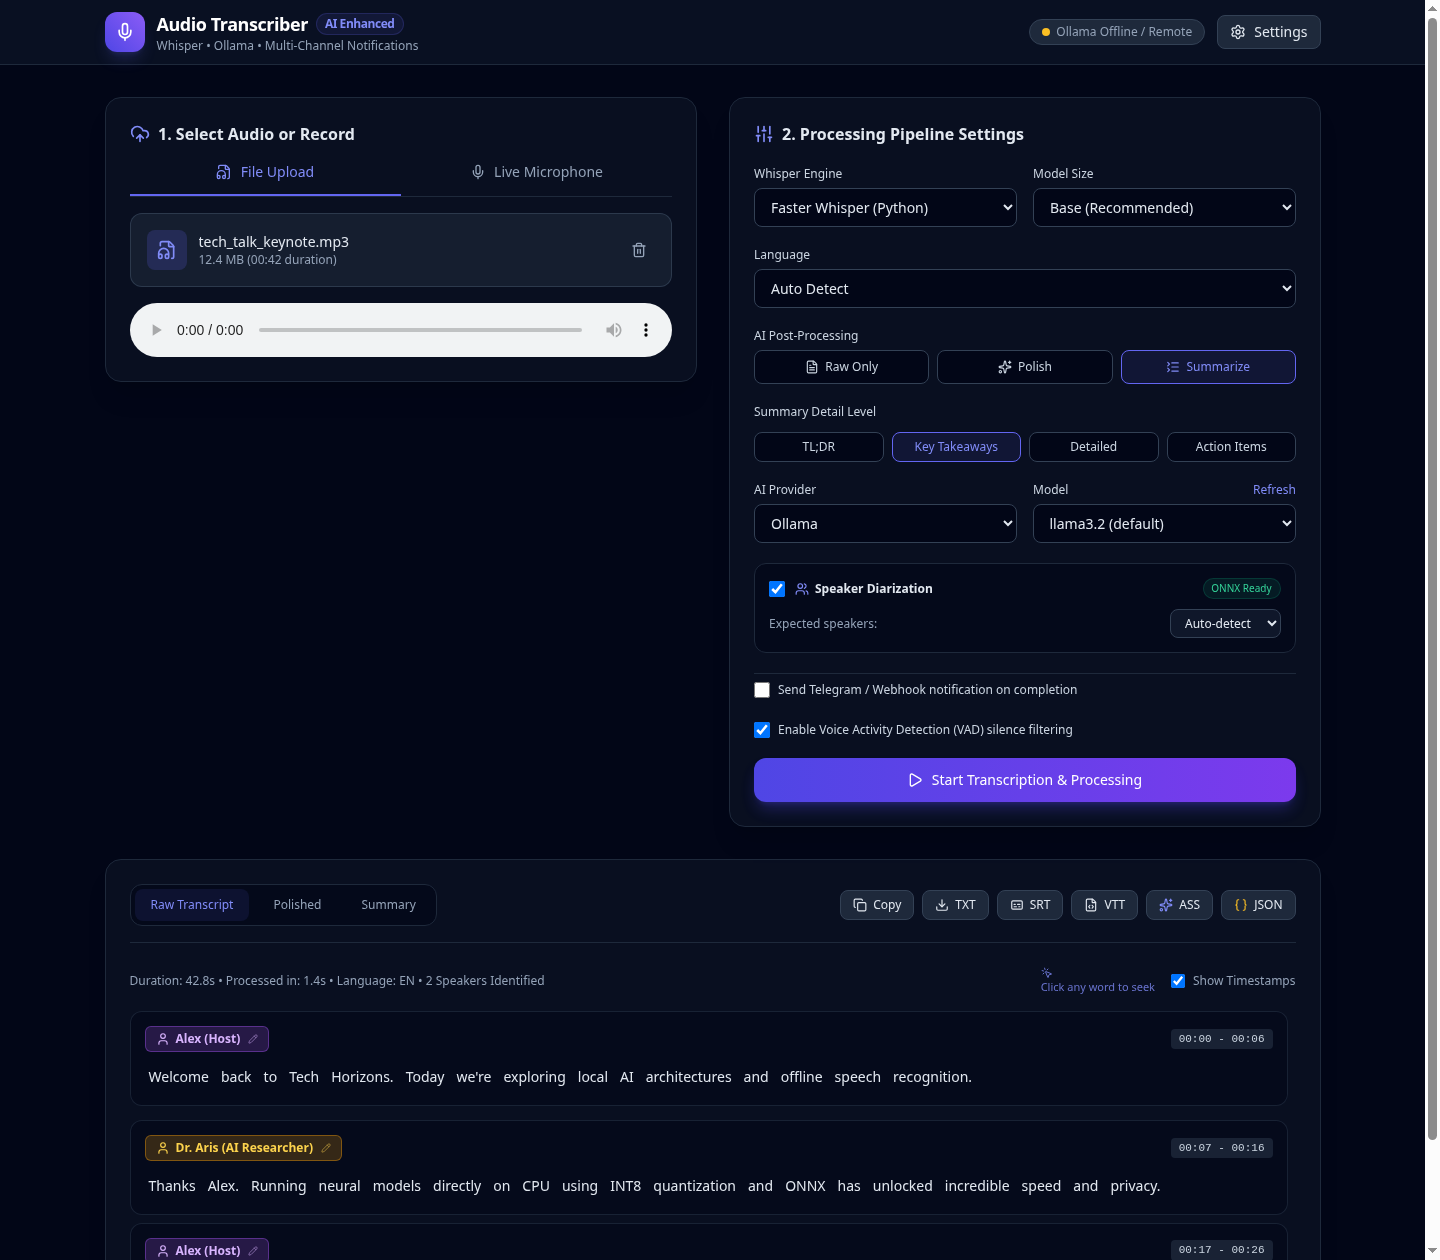
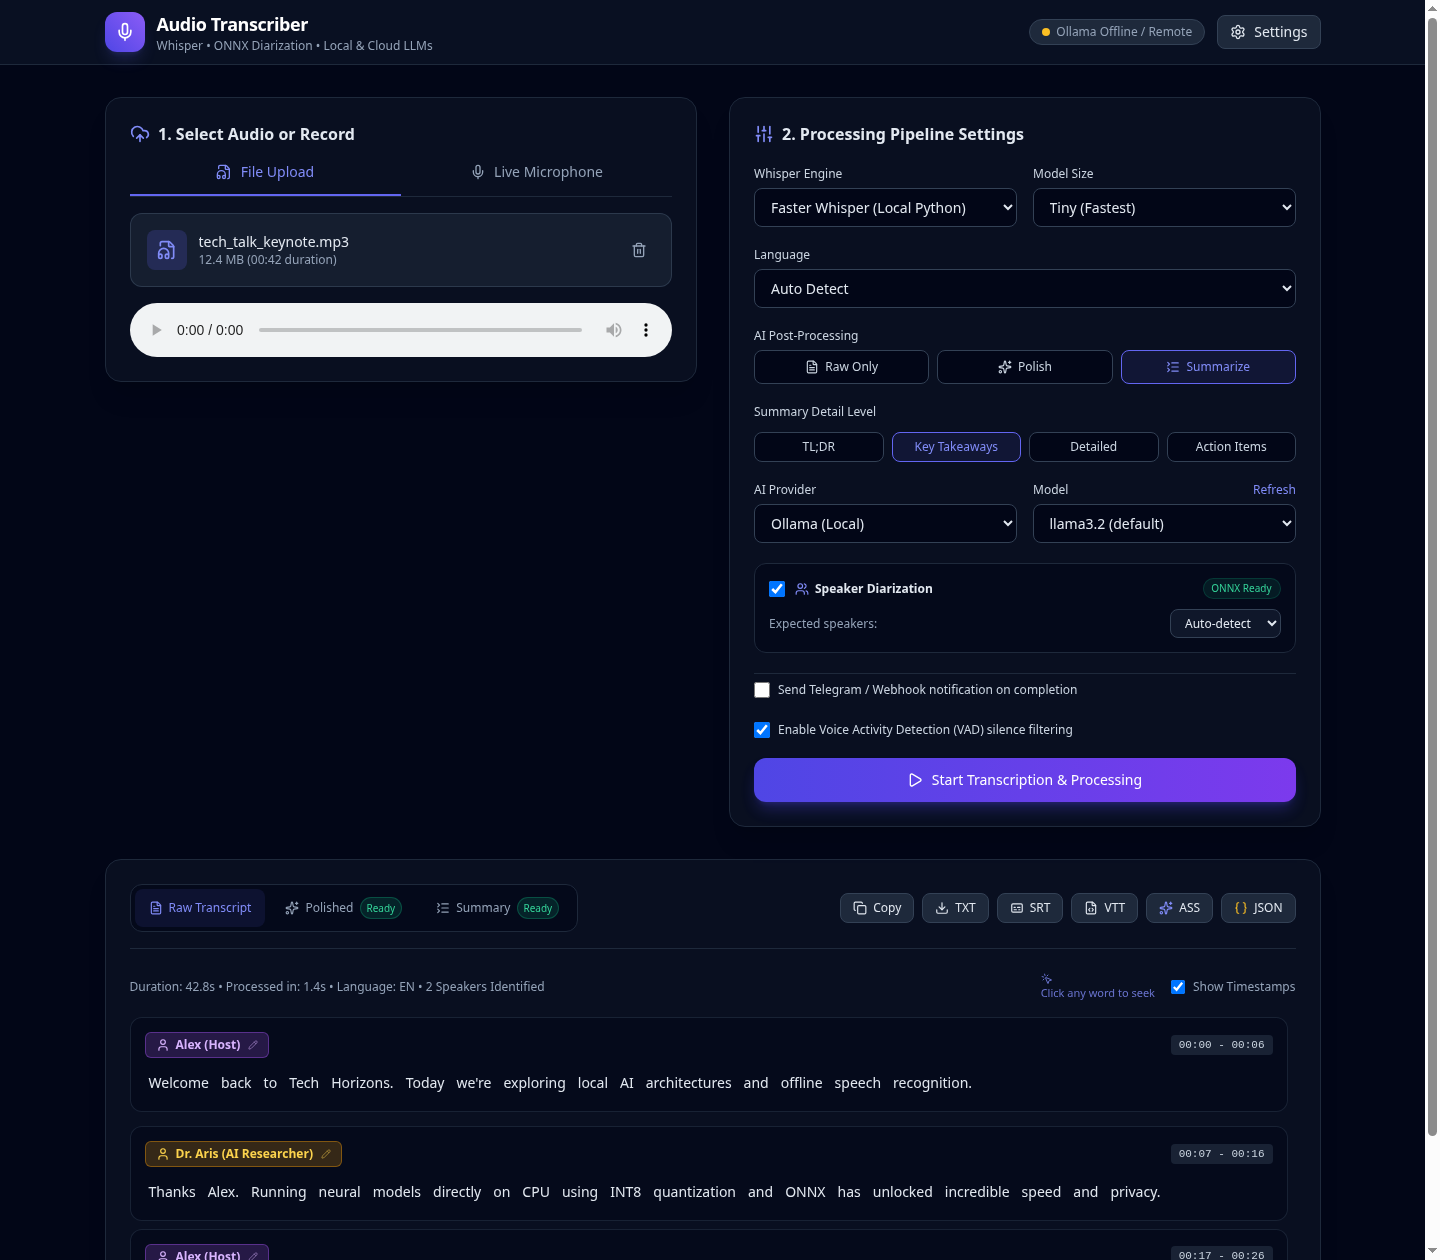
updating documentation

diff --git a/templates/index.html b/templates/index.html
@@ -22,8 +22,8 @@
           <i data-lucide="mic" class="w-5 h-5 text-white"></i>
         </div>
         <div>
-          <h1 class="text-lg font-semibold tracking-tight text-white flex items-center gap-2">
-            Audio Transcriber <span class="text-xs px-2 py-0.5 rounded-full bg-indigo-500/10 text-indigo-400 border border-indigo-500/20">AI Enhanced</span>
+          <h1 class="text-lg font-semibold tracking-tight text-white">
+            Audio Transcriber
           </h1>
           <p class="text-xs text-slate-400">Whisper • ONNX Diarization • Local & Cloud LLMs</p>
         </div>
@@ -162,7 +162,7 @@
               <select id="whisper-engine-select" class="w-full bg-slate-950 border border-slate-700 rounded-lg px-3 py-2 text-sm text-slate-200 focus:outline-none focus:border-indigo-500">
                 <option value="faster-whisper" selected>Faster Whisper (Local Python)</option>
                 <option value="whisper.cpp">Whisper C++ Binary (Local)</option>
-                <option value="groq">Groq Cloud Whisper (Ultra-Fast)</option>
+                <option value="groq">Groq Cloud Whisper</option>
                 <option value="openrouter">OpenRouter Cloud Whisper</option>
                 <option value="openai">OpenAI Cloud Whisper</option>
               </select>
@@ -228,7 +228,7 @@
               <label class="block text-xs font-medium text-slate-300 mb-1.5">AI Provider</label>
               <select id="llm-provider-select" class="w-full bg-slate-950 border border-slate-700 rounded-lg px-3 py-2 text-sm text-slate-200 focus:outline-none focus:border-indigo-500">
                 <option value="ollama" selected>Ollama (Local)</option>
-                <option value="groq">Groq Cloud (Ultra-Fast)</option>
+                <option value="groq">Groq Cloud</option>
                 <option value="openrouter">OpenRouter (Multi-Model)</option>
                 <option value="openai_compat">OpenAI Compatible / Custom</option>
               </select>
@@ -419,7 +419,7 @@
         <div class="border border-slate-800 rounded-xl p-4 bg-slate-950/40 space-y-3">
           <div class="flex items-center justify-between">
             <span class="font-medium text-slate-200 flex items-center gap-2">
-              <i data-lucide="zap" class="w-4 h-4 text-amber-400"></i> Groq Cloud (Ultra-Fast STT & LLM)
+              <i data-lucide="zap" class="w-4 h-4 text-amber-400"></i> Groq Cloud
             </span>
             <button id="test-groq-btn" class="px-2.5 py-1 text-xs font-medium rounded-lg bg-amber-500/10 hover:bg-amber-500/20 text-amber-400 border border-amber-500/20">
               Test Connection

diff --git a/transcribers/factory.py b/transcribers/factory.py
@@ -23,7 +23,7 @@ class TranscriberFactory:
             "faster-whisper": FasterWhisperTranscriber(),
             "groq": OpenAICompatibleTranscriber(
                 name="groq",
-                display_name="Groq Cloud Whisper (Ultra-Fast)",
+                display_name="Groq Cloud Whisper",
                 base_url_getter=lambda: settings.groq_base_url,
                 api_key_getter=lambda: settings.groq_api_key,
                 default_model=settings.groq_default_stt_model,

diff --git a/llm/registry.py b/llm/registry.py
@@ -21,7 +21,7 @@ class LLMRegistry:
             "ollama": OllamaLLMProvider(),
             "groq": OpenAICompatibleLLMProvider(
                 provider_id="groq",
-                display_name="Groq Cloud (Ultra-Fast)",
+                display_name="Groq Cloud",
                 api_key_getter=lambda: settings.groq_api_key,
                 base_url_getter=lambda: settings.groq_base_url,
                 default_model_getter=lambda: settings.groq_default_model,

diff --git a/README.md b/README.md
@@ -1,48 +1,44 @@
-# Audio Transcriber & AI Summarizer
+# Audio Transcriber
 
-A modular audio transcription and AI analysis platform. Accepts audio/video media in any format, standardizes it to Whisper-optimized 16kHz mono WAV via FFmpeg, transcribes it with Whisper, polishes or summarizes it with selectable LLM models (Ollama or OpenAI-compatible), and dispatches notifications across multiple channels (Telegram, Webhooks).
+Audio and video transcription tool powered by Whisper, ONNX speaker diarization, and optional LLM post-processing. Converts media to 16kHz mono WAV via FFmpeg, transcribes using local or API Whisper engines, and optionally polishes or summarizes transcripts using local or cloud LLMs.
 
 <p align="center">
-  <img src="docs/screenshots/dashboard.png" alt="Audio Transcriber & AI Summarizer Dashboard" width="100%">
+  <img src="docs/screenshots/dashboard.png" alt="Audio Transcriber Dashboard" width="100%">
 </p>
 
 ---
 
-## Key Features
+## Features
 
-- **Universal Media Ingestion**: Supports `.mp3`, `.wav`, `.m4a`, `.ogg`, `.flac`, `.aac`, `.opus`, `.webm`, `.mp4`, `.mkv`, etc.
-- **FFmpeg Standardization**: Automatically downmixes and resamples any container and codec to Whisper's ideal format: **16,000 Hz, 1-channel mono, 16-bit PCM WAV**.
+- **Audio Ingestion & Conversion**: Ingests `.mp3`, `.wav`, `.m4a`, `.ogg`, `.flac`, `.aac`, `.opus`, `.webm`, `.mp4`, `.mkv`, etc., and standardizes to 16,000 Hz, 1-channel mono, 16-bit PCM WAV via FFmpeg.
 - **Whisper Transcription Engine**:
-  - `faster-whisper` (CTranslate2 with CPU `int8` quantization for fast, low-memory inference).
+  - `faster-whisper` (CTranslate2 with CPU `int8` quantization).
   - `whisper.cpp` standalone C++ binary runner with SHA256 verification and compilation fallback.
-  - Generates plain text, timestamped interactive segments, and subtitle exports (**SRT**, **WebVTT**, **ASS**, **JSON**).
+  - Cloud STT via OpenAI-compatible endpoints (Groq Whisper, OpenRouter).
+  - Subtitle and transcript export: plain text, timestamped segments, **SRT**, **WebVTT**, **ASS**, **JSON**.
 - **Speaker Diarization (ONNX)**:
-  - Offline multi-speaker identification and dialogue turn segmentation powered by `sherpa-onnx` (Pyannote 3.0 segmentation + 3D-Speaker embedding neural networks).
-  - 100% CPU inference with zero PyTorch or GPU requirements.
-  - On-demand model provisioning: models are fetched automatically only when diarization is first requested.
-  - Interactive inline speaker renaming that updates exports and dialogue turns in real time.
-- **Live Real-Time Dictation (WebSockets)**:
-  - Low-latency live microphone streaming over WebSockets (`/api/ws/transcribe`).
-  - Sliding-window decoding with energy VAD and silence pause detection running asynchronously in background worker threads.
-  - Interactive live UI displaying interim words in real time with visual audio equalizer waves and automatic handoff to full results export and AI processing.
-- **Word-Level Precision & Karaoke Playback**:
-  - Precise word-level timestamps with speech recognition confidence scores.
-  - Real-time karaoke-style word highlighting synchronized with audio playback.
-  - Click-to-seek navigation: clicking any word or timestamp instantly seeks the audio player to that exact moment.
-- **Extensible AI Intelligence (Ollama, Groq, OpenRouter & Beyond)**:
-  - **Cloud STT Acceleration**: Near-instant transcription using Groq Cloud Whisper (`whisper-large-v3-turbo`, `distil-whisper`) or OpenRouter, with automatic audio compression and chunking for files exceeding the 25MB API limit.
-  - **Transcript Polish & Summarization**: Choose between local Ollama models or ultra-fast cloud LLMs (Groq Llama 3.3 70B, OpenRouter Claude/DeepSeek-R1, custom vLLM).
-  - **Universal Profile-Driven Adapters**: Zero vendor-specific subclasses. Both STT and LLM integrations adhere to standard OpenAI REST specifications and can be plugged declaratively via `config.json` or the Settings UI.
-  - **Interactive Settings & Connection Testing**: In-browser latency benchmarking and connection verification with masked credential security.
-- **Modular Notification Dispatcher (Strategy Pattern)**:
-  - **Telegram Bot**: Sends rich HTML notifications with execution stats, formatted summaries, and full transcript documents (`.txt` / `.md`).
-  - **Generic Webhook**: Dispatches standard JSON POST payloads to automation workflows (n8n, Make, Zapier, Discord, Slack).
-  - Open for extension: Add Slack, Email, or Discord providers without modifying core transcription code.
-- **Modern Responsive Dashboard**:
-  - Drag-and-drop file upload with format inspection.
-  - In-browser microphone audio recorder with live WebSocket dictation.
-  - Audio player with interactive timestamp seeking and word karaoke highlighting.
-  - Clean dark theme built with Tailwind CSS and Lucide icons.
+  - Offline speaker identification and turn segmentation using `sherpa-onnx` (Pyannote 3.0 segmentation + 3D-Speaker embedding models on CPU).
+  - On-demand model download on first use.
+  - Inline speaker renaming that updates exports and dialogue turns.
+- **Live Dictation (WebSockets)**:
+  - Real-time microphone audio streaming over WebSockets (`/api/ws/transcribe`).
+  - Sliding-window decoding with energy-based VAD and silence detection.
+  - Interactive live UI with transcript feed and export handoff.
+- **Word-Level Timestamps & Playback**:
+  - Word-level timestamps and confidence scores.
+  - Audio player with click-to-seek navigation (clicking any word seeks audio playback to that position).
+  - Playback highlighting synchronized with audio.
+- **LLM Post-Processing**:
+  - Transcript polishing (grammar and punctuation cleanup) and summarization (TL;DR, key takeaways, detailed, action items).
+  - Supports local Ollama or any OpenAI-compatible API (Groq, OpenRouter, self-hosted vLLM/llama.cpp, etc.).
+  - Streaming token output.
+- **Notifications**:
+  - Telegram bot: sends execution stats, formatted summaries, and transcript files (`.txt` / `.md`).
+  - Webhook: dispatches JSON POST payloads on job completion.
+- **Web UI**:
+  - Single-page interface with drag-and-drop file upload and microphone recording.
+  - Transcript view with speaker dialogue grouping and export options.
+  - Settings modal for configuring API keys, endpoints, and notifications.
   - Zero Node/NPM dependencies needed to run.
 
 ---
@@ -78,11 +74,11 @@ cp config.json.example config.json
 | `HOST` | `0.0.0.0` | Server bind address |
 | `PORT` | `8000` | Server HTTP port |
 | `DEFAULT_WHISPER_MODEL`| `base` | Default Whisper model (`tiny`, `base`, `small`, `medium`) |
-| `GROQ_API_KEY` | | Groq Cloud API Key for ultra-fast Whisper & Llama 3.3 |
-| `OPENROUTER_API_KEY` | | OpenRouter API Key for cloud Whisper, Claude, DeepSeek |
-| `OPENAI_API_KEY` | | OpenAI / Custom OpenAI-compatible API Key |
+| `GROQ_API_KEY` | | Groq API Key |
+| `OPENROUTER_API_KEY` | | OpenRouter API Key |
+| `OPENAI_API_KEY` | | OpenAI or OpenAI-compatible API Key |
 | `OLLAMA_BASE_URL` | `http://127.0.0.1:11434` | Local Ollama API endpoint |
-| `DEFAULT_OLLAMA_MODEL` | `llama3.2` | Default model for polishing & summaries |
+| `DEFAULT_OLLAMA_MODEL` | `llama3.2` | Default model for polishing and summaries |
 | `TELEGRAM_ENABLED` | `false` | Enable Telegram notification dispatch |
 | `TELEGRAM_BOT_TOKEN` | | Telegram Bot Token from `@BotFather` |
 | `TELEGRAM_CHAT_ID` | | Target Chat or Channel ID |
@@ -145,11 +141,11 @@ transcriber/
 │   ├── prompts.py             # Decoupled prompts (Polish + 5 summary tiers with speaker headers)
 │   └── registry.py            # LLM provider registry
 ├── templates/
-│   └── index.html             # Modern responsive web dashboard
+│   └── index.html             # Web UI template
 ├── static/
 │   ├── app.js                 # UI controller, mic recording, SSE streams, live dictation
-│   └── style.css              # Custom styling & animations
-└── tests/                     # 48 automated tests covering all subsystems
+│   └── style.css              # Custom CSS
+└── tests/                     # 50 automated tests covering all subsystems
 ```
 
 ---
